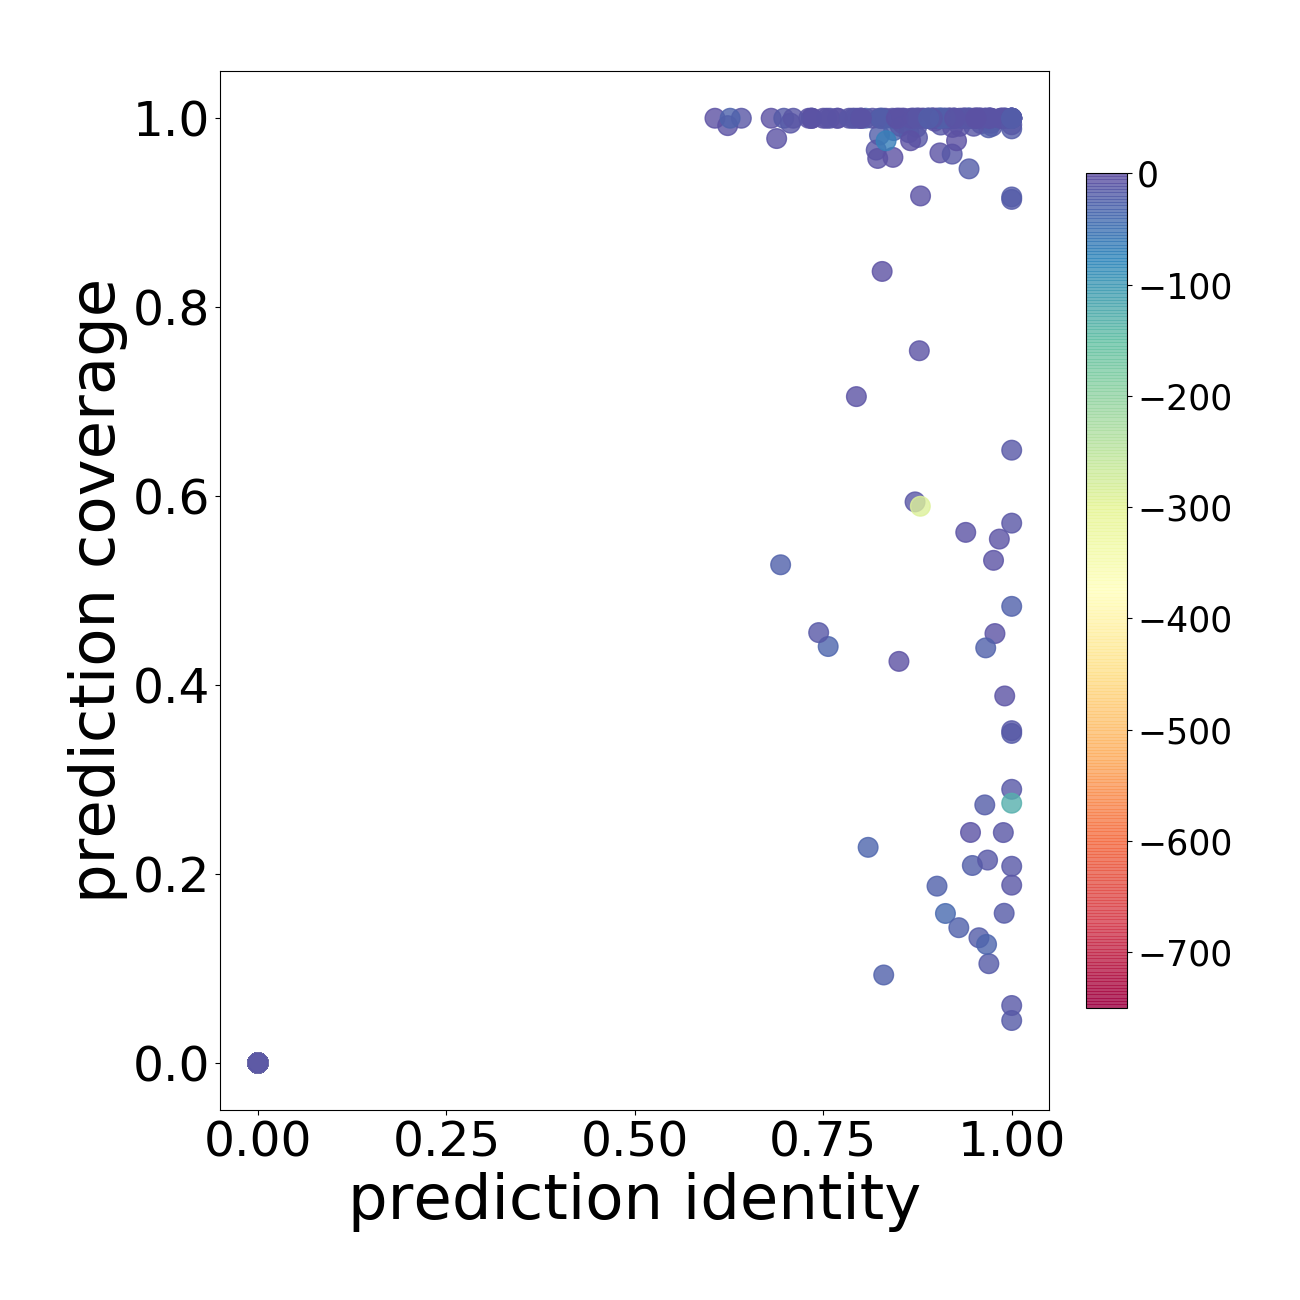
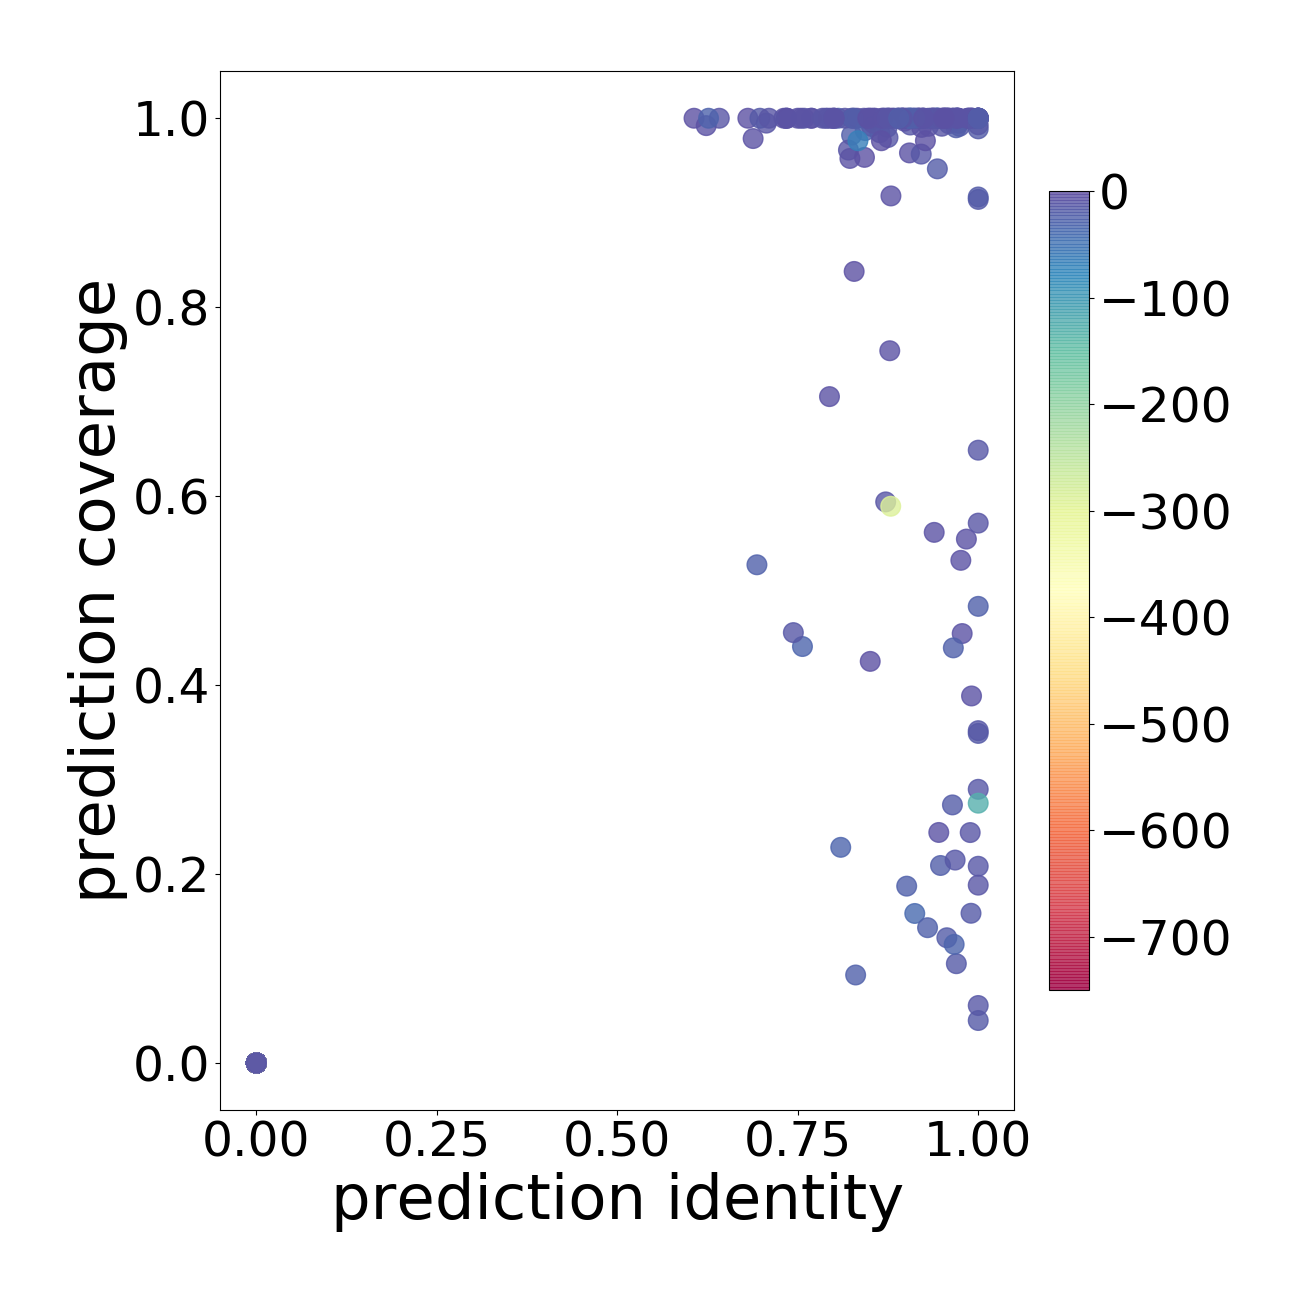
Bigger font size

diff --git a/src/app/helper_scripts/data_crunching/wrangle_csv.py b/src/app/helper_scripts/data_crunching/wrangle_csv.py
@@ -84,7 +84,7 @@ def plot_comparison_scatter(data, file_path):
     plt.close(fig)
 
 def plot_scatter(data, file_path):
-    cbar_text_font_size = 25
+    cbar_text_font_size = 35
     plt.rc('xtick', labelsize=secondary_text_font_size)
     plt.rc('ytick', labelsize=secondary_text_font_size)
     font = {
